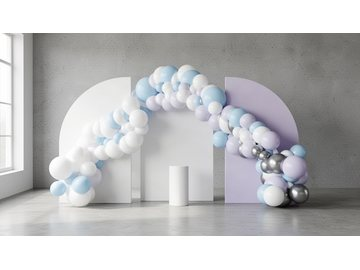
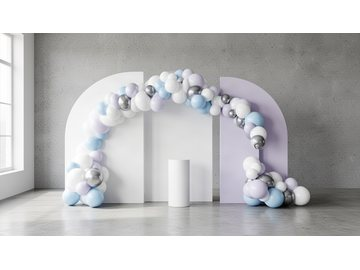
Triple Arch: correct symbol, sizes, tighter join, garland on top not in front
1. The Triple Arch icon showed two shapes instead of three. SetupMiniPreview's
   x-placement only ever handled one or two pieces — with three, the second and
   third both landed on the same centre. It now spreads n pieces evenly, and
   there are proper half-arch symbols (one quarter-round top corner facing
   outward, straight edge inward) instead of borrowing the small full arch.

2. The half arches were missing from "Size your pieces" entirely — the customer
   saw only the centre board there. They are sold in one fixed size so there is
   nothing to choose, but they now get their own card each with the dimension
   and their colour picker. Unlike the other fixed-size pieces there are TWO, so
   this maps over every one rather than taking the first.

3. Dimensions set to the real product: side boards 90 x 180 cm, centre board
   100 x 200 cm (the Medium, not the 220cm Large), and the three overlap harder
   so they read as touching. Two things fought this and both are fixed: the
   template created the centre unsized, and a useEffect that pulls a lone arch
   up to Large kept overriding it — a Triple Arch has exactly one `arch` item,
   so it looked like a lone arch to that rule.

4. The garland runs over the TOP of the boards, not across their faces. Two of
   the four crown lanes used to hang a full balloon or more BELOW the top edge.
   Lifting all four above it went too far — the render dropped the centre
[…]

diff --git a/app/configure/page.tsx b/app/configure/page.tsx
@@ -144,7 +144,10 @@ function SetupMiniPreview({ shapes }: { shapes: string[] }) {
   const n = drawShapes.length;
   const BASE = 60; // floor line
   drawShapes.forEach((shape, i) => {
-    const cx = n === 1 ? 60 : i === 0 ? 40 : 84;
+    // 2026-09-09: this only ever handled one or two pieces — with three, the
+    // second and third both landed on 84 and the Triple Arch icon showed two
+    // shapes instead of three.
+    const cx = n === 1 ? 60 : n === 2 ? (i === 0 ? 40 : 84) : 34 + i * 26;
     const key = `${shape}-${i}`;
     if (shape === "arch" || shape === "arch_large" || shape === "arch_small") {
       const w = shape === "arch_large" ? 38 : shape === "arch_small" ? 26 : 34;
@@ -152,6 +155,19 @@ function SetupMiniPreview({ shapes }: { shapes: string[] }) {
       const r = w / 2;
       els.push(
         <path key={key} d={`M ${cx - r},${BASE} L ${cx - r},${top + r} A ${r},${r} 0 0 1 ${cx + r},${top + r} L ${cx + r},${BASE} Z`}
+          fill={`url(#gradArch)`} />
+      );
+    } else if (shape === "half_arch_left" || shape === "half_arch_right") {
+      // An arch sliced down the middle: one quarter-round top corner facing
+      // outward, the other edge straight and full height.
+      const w = 22, top = 20, r = 22;
+      const left = cx - w / 2, right = cx + w / 2;
+      const facingLeft = shape === "half_arch_left";
+      const outer = facingLeft ? left : right;
+      const inner = facingLeft ? right : left;
+      const sweep = facingLeft ? 1 : 0;
+      els.push(
+        <path key={key} d={`M ${outer},${BASE} L ${outer},${top + r} A ${r},${r} 0 0 ${sweep} ${inner},${top} L ${inner},${BASE} Z`}
           fill={`url(#gradArch)`} />
       );
     } else if (shape === "round") {
@@ -1019,6 +1035,10 @@ function DecorStep({
   // scene arrives on Medium or Small — a saved draft, or a second arch that was
   // just removed — bring it up to Large so the state matches what is offered.
   useEffect(() => {
+    // 2026-09-09: not on a Triple Arch. It has exactly one `arch` item — the
+    // centre board — and the customer set that one to 200cm, but this effect
+    // saw a lone arch and kept forcing it back to the 220cm Large.
+    if (config.decor.backdropItems.some((i: BackdropItem) => i.type === "half_arch")) return;
     const arches = config.decor.backdropItems.filter((i: BackdropItem) => i.type === "arch");
     if (arches.length !== 1) return;
     const only = arches[0];
@@ -1349,9 +1369,13 @@ function clearAllStandees() {
       // 2026-09-09: the first three-piece layout. Selection order is
       // left-to-right, so the two half arches bracket the centre board.
       case "triple_arch":
+        // 2026-09-09: the centre board is the 200cm Medium, not the 220cm
+        // Large, and it is created already sized — the side half arches have no
+        // size step, so leaving the centre unsized stalled the whole setup on
+        // "pick a size".
         panels = [
           { ...makeBackdropItem("half_arch"), id: "half-1" },
-          { ...makeArchUnsized("arch-1") },
+          { ...makeBackdropItem("arch", "medium"), id: "arch-1" },
           { ...makeBackdropItem("half_arch"), id: "half-2" },
         ];
         break;
@@ -1782,7 +1806,10 @@ function clearAllStandees() {
                               (customer decision 2026-09-04). Double Arch still
                               offers all three, because its second board is
                               deliberately a smaller size. */}
-                          {(archCount > 1 ? ARCH_SIZES : ARCH_SIZES.filter((s) => s.id === "large")).map((size) => {
+                          {(d.backdropItems.some((i) => i.type === "half_arch")
+                            // Triple Arch: the centre board is the 200cm Medium.
+                            ? ARCH_SIZES.filter((s) => s.id === "medium")
+                            : archCount > 1 ? ARCH_SIZES : ARCH_SIZES.filter((s) => s.id === "large")).map((size) => {
                             const isSel = item.sizeId === size.id;
                             return (
                               <button key={size.id} type="button"
@@ -1875,6 +1902,39 @@ function clearAllStandees() {
           return it && itemIdx >= 0
             ? <div key={ty}>{BackdropCustomizeRow({ item: it, itemIdx })}</div>
             : null;
+        })}
+
+        {/* 2026-09-09: the half arches were missing from this step entirely —
+            the customer saw only the centre board here. They are sold in one
+            fixed size so there is nothing to choose, but they still need their
+            own card with the dimension on it and their colour picker. Unlike
+            the other fixed-size pieces there are TWO of them, so this maps over
+            every one rather than taking the first. */}
+        {d.backdropItems.map((item, itemIdx) => {
+          if (item.type !== "half_arch") return null;
+          const before = d.backdropItems.filter((i, k) => i.type === "half_arch" && k < itemIdx).length;
+          return (
+            <div key={item.id} style={{ background: DC.innerBg, borderRadius: 18, padding: 16, marginTop: 10,
+              border: `1.5px solid ${DC.cardBd}` }}>
+              <div style={{ display: "flex", gap: 14, alignItems: "center", flexWrap: "wrap" }}>
+                <svg width="56" height="64" viewBox="0 0 56 64" style={{ flex: "none" }} aria-hidden="true">
+                  <defs><linearGradient id={`pieceHalf-${item.id}`} x1="0" y1="0" x2="0" y2="1"><stop offset="0%" stopColor="#F3A9C6"/><stop offset="100%" stopColor="#E27BA4"/></linearGradient></defs>
+                  {before === 0
+                    ? <path d="M 12,60 L 12,34 A 22,22 0 0 1 34,12 L 34,60 Z" fill={`url(#pieceHalf-${item.id})`} />
+                    : <path d="M 44,60 L 44,34 A 22,22 0 0 0 22,12 L 22,60 Z" fill={`url(#pieceHalf-${item.id})`} />}
+                </svg>
+                <div style={{ flex: 1, minWidth: 220 }}>
+                  <div style={{ fontWeight: 700, fontSize: 14, color: DC.plum }}>
+                    {before === 0 ? "Left half arch" : "Right half arch"}
+                  </div>
+                  <div style={{ fontSize: 11.5, color: DC.muted }}>
+                    One fixed size · {item.widthCm} × {item.heightCm} cm
+                  </div>
+                </div>
+              </div>
+              {BackdropCustomizeRow({ item, itemIdx })}
+            </div>
+          );
         })}
 
         {/* Shimmer color picker intentionally removed (2026-07-12) — shimmer

diff --git a/lib/generateStructureSilhouette.ts b/lib/generateStructureSilhouette.ts
@@ -1840,12 +1840,46 @@ export function generateStructureSilhouette(
                 : lane === 1 ? rMid * (0.85 + crnd() * 0.4)
                 : lane === 2 ? rLil * (0.85 + crnd() * 0.5)
                 : rMid * (0.70 + crnd() * 0.5);
-              const off = lane === 0 ? -rr * 0.15 : lane === 1 ? -rr * 0.80 : lane === 2 ? rr * 0.85 : rr * 1.85;
+              // 2026-09-09: every lane now sits ON or ABOVE the board's top
+              // edge. Two of the four used to hang BELOW it (+0.85 and +1.85 of
+              // a radius), which put balloons across the face of the boards —
+              // the customer's reference has the garland riding the top edge
+              // with the board faces left clean.
+              const off = lane === 0 ? -rr * 0.20
+                : lane === 1 ? -rr * 1.05
+                : lane === 2 ? -rr * 1.95
+                : rr * 0.45;   // just onto the edge, never across the face
               putC(
                 x + (crnd() * 2 - 1) * rMid * 0.55,
                 ty + off + (crnd() * 2 - 1) * rLil * 0.5,
                 rr,
               );
+            }
+          }
+
+          // 2026-09-09: heavy clusters over the two JOINS, and one over the
+          // centre crown. A uniform band across the tops kept being dropped by
+          // the render — it came back as two separate garlands on the side
+          // boards with the middle bare — and the customer's reference is in
+          // fact thickest exactly at these three points. A localised mass is
+          // reproduced where an even strip is not.
+          {
+            const centreP2 = ordered[1] ?? leftP;
+            const joinL = (leftP.cx + leftP.pw / 2 + centreP2.cx - centreP2.pw / 2) / 2;
+            const joinR = (centreP2.cx + centreP2.pw / 2 + rightP.cx - rightP.pw / 2) / 2;
+            for (const jx of [joinL, centreP2.cx, joinR]) {
+              const jy = topYAt(jx);
+              if (jy === null) continue;
+              for (let i = 0; i < 16; i++) {
+                const a3 = crnd() * Math.PI * 2;
+                const dd = Math.pow(crnd(), 0.7) * rBig * 1.5;
+                const rr = i % 3 === 0 ? rBig * (0.9 + crnd() * 0.3) : rMid * (0.8 + crnd() * 0.5);
+                putC(
+                  jx + Math.cos(a3) * dd,
+                  jy + Math.sin(a3) * dd * 0.75 - rr * 0.35,
+                  rr,
+                );
+              }
             }
           }
 

diff --git a/lib/calculateExactLayout.ts b/lib/calculateExactLayout.ts
@@ -155,7 +155,10 @@ export function calculateExactLayout(
   // gap — overlapping two identical silhouettes just looks like a mistake.
   const heightsDiffer = (bothArches && new Set(rawPanels.map((r) => r.hCm)).size > 1) || isTripleArch;
   const minPwScaled   = Math.min(...rawPanels.map((r) => r.pw * groupScale));
-  const effGap        = heightsDiffer ? -minPwScaled * 0.035 : gap;
+  // 2026-09-09: the Triple Arch overlaps harder than the arch pair. The
+  // customer wants all three literally touching ("dipdibe"), and at -3.5% the
+  // render still left a visible sliver of wall between the boards.
+  const effGap        = isTripleArch ? -minPwScaled * 0.10 : heightsDiffer ? -minPwScaled * 0.035 : gap;
   // How far forward the shorter board stands, as a share of the tallest board's
   // own height. Same idea as plinthForwardPx in the guide: in this projection,
   // nearer the camera means lower on the canvas.

diff --git a/lib/setupLayoutCatalog.ts b/lib/setupLayoutCatalog.ts
@@ -55,6 +55,7 @@ export interface LayoutZone {
 /** Shape tokens for the playful mini preview illustration on setup cards. */
 export type MiniPreviewShape =
   | "arch" | "arch_large" | "arch_small"
+  | "half_arch_left" | "half_arch_right"
   | "round" | "shimmer" | "open_frame" | "banner" | "ring" | "balloons";
 
 export interface SetupLayoutTemplate {
@@ -296,7 +297,7 @@ export const SETUP_LAYOUT_TEMPLATES: SetupLayoutTemplate[] = [
     backdropTypes: ["half_arch", "arch", "half_arch"],
     maxBackdrops: 3,
     badge: "New",
-    miniPreview: ["arch_small", "arch_large", "arch_small"],
+    miniPreview: ["half_arch_left", "arch_large", "half_arch_right"],
     panelInstruction:
       "Three freestanding backdrop boards standing shoulder to shoulder with no gap: a tall arch in the " +
       "centre, and a half arch either side — each side board is an arch sliced down the middle, its " +

diff --git a/lib/config.ts b/lib/config.ts
@@ -432,9 +432,10 @@ export function makeBackdropItem(
     // middle, curve facing outward, standing shoulder to shoulder with the
     // centre board. Shorter and narrower than the centre arch, as in the
     // customer reference.
-    // 2026-09-09: 80x180 -> 90x150. At 180cm the side boards were nearly as
-    // tall as the 220cm centre and the stepped silhouette did not read.
-    widthCm = 90; heightCm = 150;
+    // 2026-09-09: the customer set these — side boards 180cm tall against a
+    // 200cm centre board. (An earlier 150cm was my own guess at making the
+    // stepped silhouette read; the real product dimension is 180.)
+    widthCm = 90; heightCm = 180;
   }
   return {
     id:      sizeId ?? type,

diff --git a/app/api/generate-controlled-render/route.ts b/app/api/generate-controlled-render/route.ts
@@ -159,7 +159,7 @@ function isAuthOrBillingError(message: string | null): boolean {
 // process (sufficient for a single-instance/dev deployment — not a
 // distributed cache). Bump RENDER_CACHE_VERSION whenever a prompt/negative
 // change should invalidate previously cached (now-stale) renders.
-const RENDER_CACHE_VERSION = "ring-half-hoop-denser-legs-v77";
+const RENDER_CACHE_VERSION = "triple-arch-180-200-garland-on-top-v78";
 
 interface RenderCacheEntry {
   imageUrl: string;
